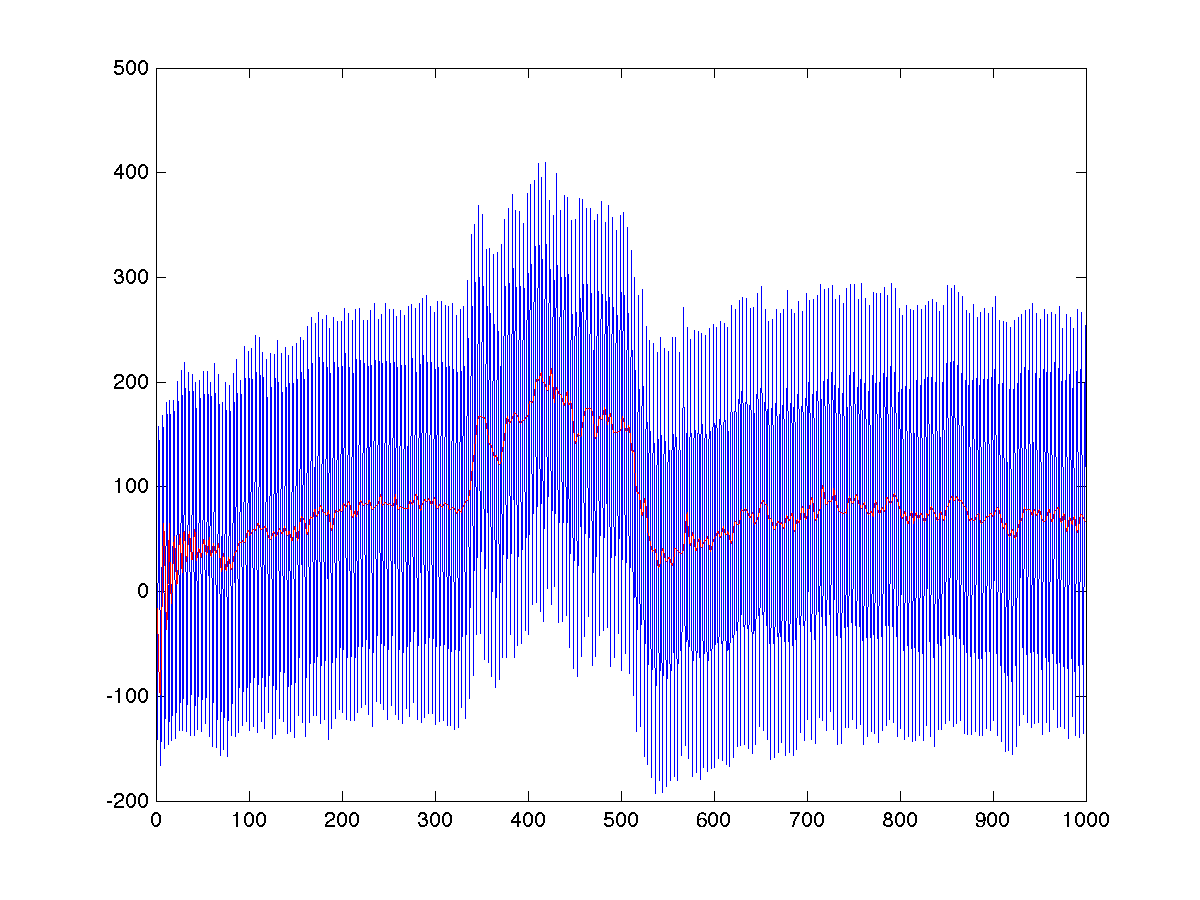
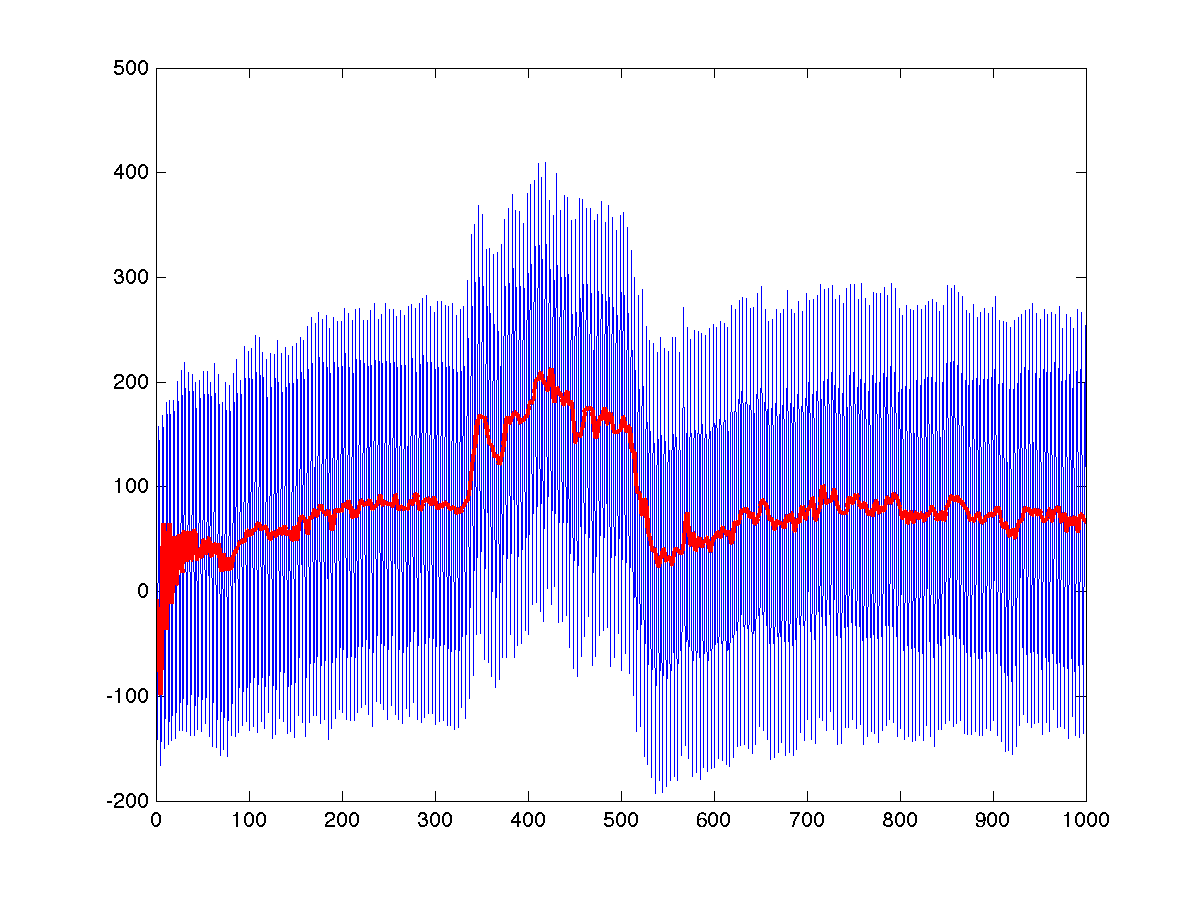
klaus tutorial

diff --git a/tutorials/klaus/+tutorial_klaus/part1.md b/tutorials/klaus/+tutorial_klaus/part1.md
@@ -659,7 +659,7 @@ figure;plot(data(1, 1:1000));
 filter(myFilter, data);
 
 % Before/after filtering
-hold on;plot(data(1, 1:1000), 'r');
+hold on;plot(data(1, 1:1000), 'r', 'LineWidth', 2);
 ````
 
 ![Before/after filtering](../img/filtering.png "Before/after filtering")
